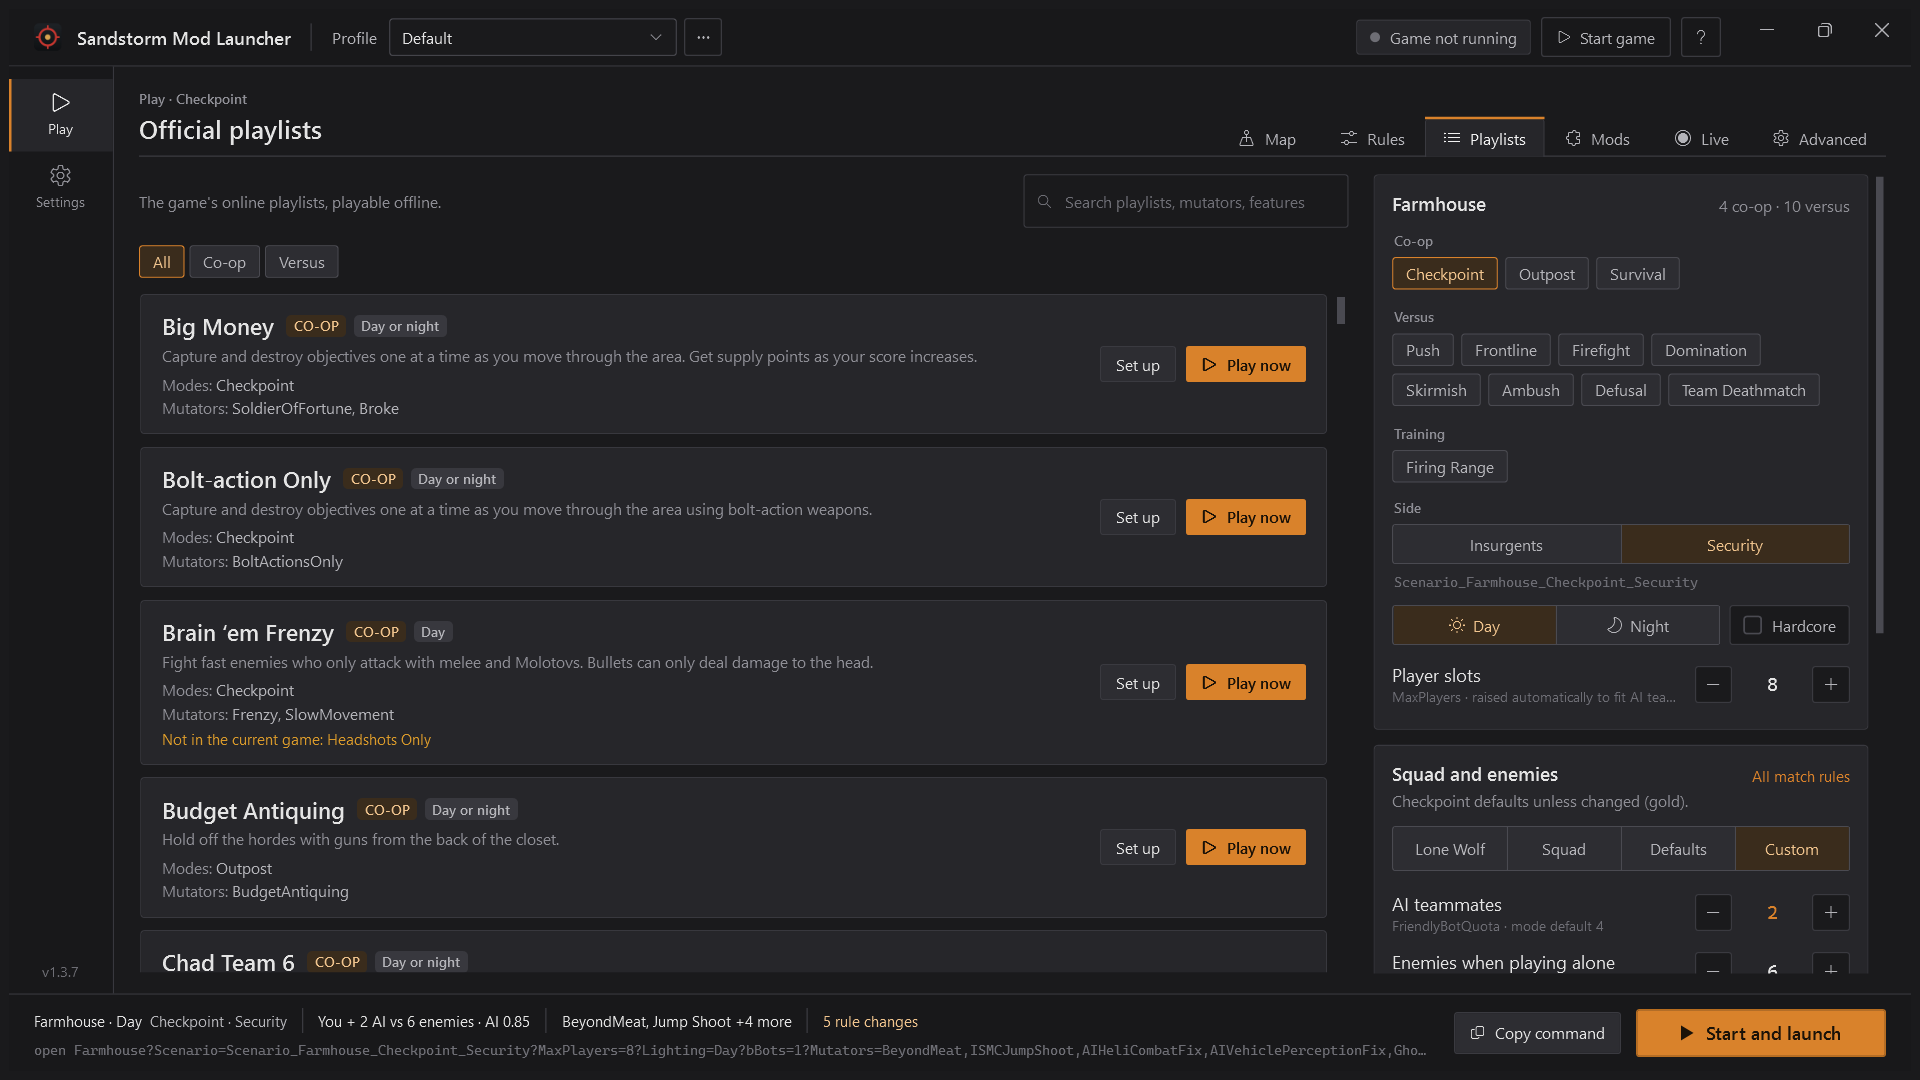
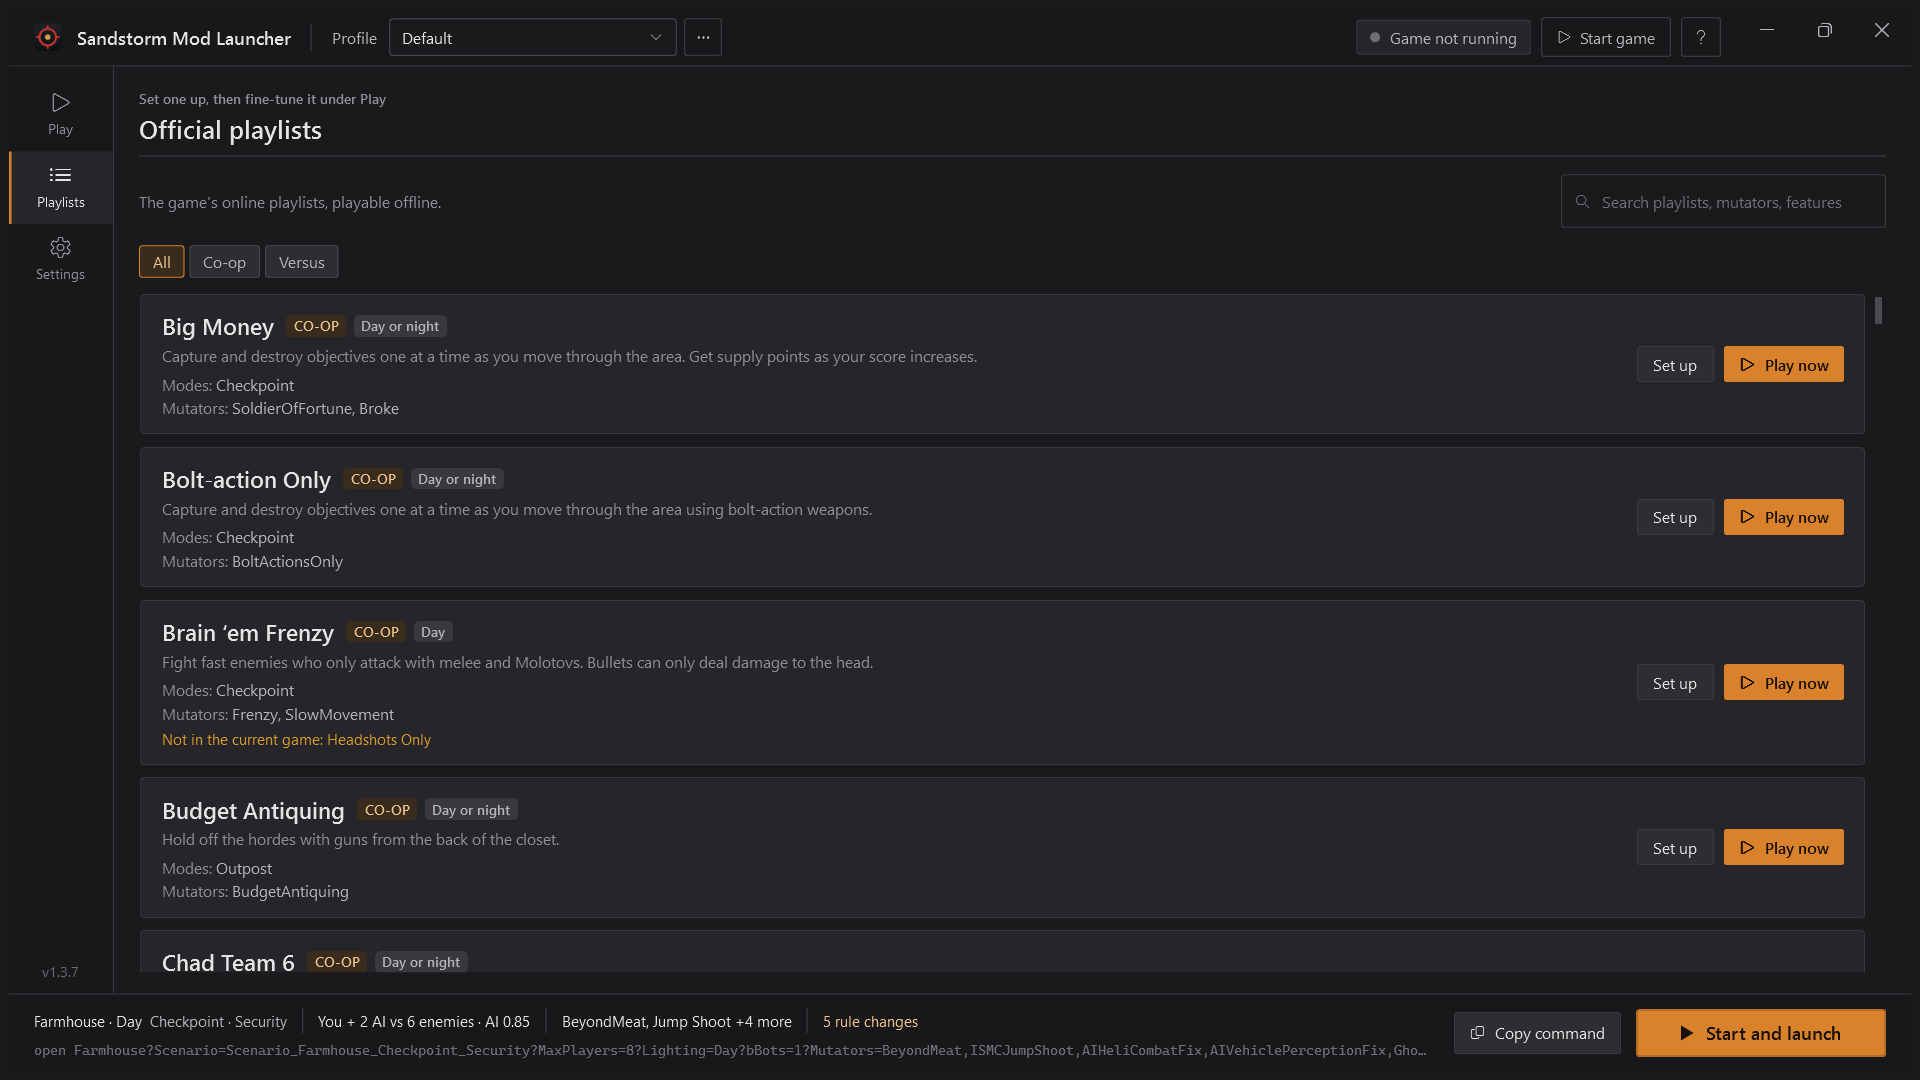
Playlists as its own page between Play and Settings (1.3.7 rebuilt in place)
Play tabs: Map, Rules, Mods, Live, Advanced. PlayTab=Playlists and a saved last page of Playlists open the new page; 'Set up' on a playlist goes back to Play > Map.

diff --git a/Views/MainWindow.xaml b/Views/MainWindow.xaml
@@ -126,7 +126,8 @@
                             <TextBlock Text="{Binding AppVersion}" FontSize="11" Foreground="{StaticResource TextFaint}" HorizontalAlignment="Center" />
                         </StackPanel>
                         <StackPanel Margin="0,10,0,0">
-                            <RadioButton Style="{StaticResource NavButton}" Content="Play" Tag="&#xE768;" IsChecked="{Binding Page, Converter={StaticResource Eq}, ConverterParameter=Play}" ToolTip="Map, squad, rules, official playlists and live control of the match" />
+                            <RadioButton Style="{StaticResource NavButton}" Content="Play" Tag="&#xE768;" IsChecked="{Binding Page, Converter={StaticResource Eq}, ConverterParameter=Play}" ToolTip="Map, squad, rules, mods and live control of the match" />
+                            <RadioButton Style="{StaticResource NavButton}" Content="Playlists" Tag="&#xE8FD;" IsChecked="{Binding Page, Converter={StaticResource Eq}, ConverterParameter=Playlists}" ToolTip="Every official online playlist, playable offline" />
                             <RadioButton Style="{StaticResource NavButton}" Content="Settings" Tag="&#xE713;" IsChecked="{Binding Page, Converter={StaticResource Eq}, ConverterParameter=Settings}" ToolTip="Game folder, console key, launch options" />
                         </StackPanel>
                     </DockPanel>
@@ -137,6 +138,20 @@
                     <Grid MinWidth="980" MinHeight="600"
                           Width="{Binding ViewportWidth, ElementName=pageScroll}" Height="{Binding ViewportHeight, ElementName=pageScroll}">
                         <p:PlayPage Visibility="{Binding Page, Converter={StaticResource Vis}, ConverterParameter=Play}" />
+                        <!-- Playlists: its own page (since 1.3.8), full width -->
+                        <Grid Margin="20,18,20,16" Visibility="{Binding Page, Converter={StaticResource Vis}, ConverterParameter=Playlists}">
+                            <Grid.RowDefinitions>
+                                <RowDefinition Height="Auto" />
+                                <RowDefinition Height="*" />
+                            </Grid.RowDefinitions>
+                            <Border Style="{StaticResource TabStrip}">
+                                <StackPanel Margin="0,0,0,8">
+                                    <TextBlock Style="{StaticResource Kicker}" Text="Set one up, then fine-tune it under Play" />
+                                    <TextBlock Text="Official playlists" Style="{StaticResource H1}" FontSize="20" Margin="0,2,0,0" />
+                                </StackPanel>
+                            </Border>
+                            <p:PlaylistsPage Grid.Row="1" />
+                        </Grid>
                         <p:SettingsPage Visibility="{Binding Page, Converter={StaticResource Vis}, ConverterParameter=Settings}" />
                     </Grid>
                 </ScrollViewer>

diff --git a/Views/Pages/PlayPage.xaml b/Views/Pages/PlayPage.xaml
@@ -70,7 +70,6 @@
                                 <Setter Property="Text" Value="Map and scenario" />
                                 <Style.Triggers>
                                     <DataTrigger Binding="{Binding PlayTab}" Value="Rules"><Setter Property="Text" Value="Match rules" /></DataTrigger>
-                                    <DataTrigger Binding="{Binding PlayTab}" Value="Playlists"><Setter Property="Text" Value="Official playlists" /></DataTrigger>
                                     <DataTrigger Binding="{Binding PlayTab}" Value="Live"><Setter Property="Text" Value="Live match control" /></DataTrigger>
                                     <DataTrigger Binding="{Binding PlayTab}" Value="Mods"><Setter Property="Text" Value="Mods and mutators" /></DataTrigger>
                                     <DataTrigger Binding="{Binding PlayTab}" Value="Advanced"><Setter Property="Text" Value="Advanced options" /></DataTrigger>
@@ -92,13 +91,6 @@
                             <StackPanel Orientation="Horizontal">
                                 <TextBlock Text="&#xE9E9;" Style="{StaticResource Icon}" FontSize="13" Margin="0,0,8,0" />
                                 <TextBlock Text="{Binding RulesTabLabel}" />
-                            </StackPanel>
-                        </RadioButton>
-                        <RadioButton Style="{StaticResource TabSegment}" IsChecked="{Binding PlayTab, Converter={StaticResource Eq}, ConverterParameter=Playlists}"
-                                     ToolTip="Every official online playlist, playable offline">
-                            <StackPanel Orientation="Horizontal">
-                                <TextBlock Text="&#xE8FD;" Style="{StaticResource Icon}" FontSize="13" Margin="0,0,8,0" />
-                                <TextBlock Text="Playlists" />
                             </StackPanel>
                         </RadioButton>
                         <RadioButton Style="{StaticResource TabSegment}" IsChecked="{Binding PlayTab, Converter={StaticResource Eq}, ConverterParameter=Mods}"
@@ -425,7 +417,6 @@
             </Grid>
 
             <!-- ============================================================ playlists + live -->
-            <p:PlaylistsPage Grid.Row="0" Grid.RowSpan="2" Visibility="{Binding PlayTab, Converter={StaticResource Vis}, ConverterParameter=Playlists}" />
             <p:LivePage Grid.Row="0" Grid.RowSpan="2" Visibility="{Binding PlayTab, Converter={StaticResource Vis}, ConverterParameter=Live}" />
             <p:ModsPage Grid.Row="0" Grid.RowSpan="2" Visibility="{Binding PlayTab, Converter={StaticResource Vis}, ConverterParameter=Mods}" />
 

diff --git a/ViewModels/MainViewModel.Settings.cs b/ViewModels/MainViewModel.Settings.cs
@@ -68,7 +68,7 @@ namespace SandstormModLauncher.ViewModels
             CancelCustomMapCommand = new RelayCommand(() => MapEditorOpen = false);
             HelpCommand = new AsyncCommand(() => ShowMessage("How it works",
                 "1. PLAY > Map: pick a map and scenario, then set your squad and the enemies on the right. Every value starts at that mode's own default. Changed values turn gold.\n\n" +
-                "2. PLAY > Rules has every other match setting of that mode, with play-style presets and the official rulesets. PLAY > Playlists sets up any official online playlist for offline play. PLAY > Advanced shows exactly what will be sent to the game.\n\n" +
+                "2. PLAY > Rules has every other match setting of that mode, with play-style presets and the official rulesets. PLAYLISTS (left bar) sets up any official online playlist for offline play. PLAY > Advanced shows exactly what will be sent to the game.\n\n" +
                 "3. PLAY > Mods: tick the mutators you want, in load order. Installed mods lists what the game has downloaded.\n\n" +
                 "4. Press LAUNCH (or F5). The launcher writes your rules to Game.ini, starts the game if needed, waits for the main menu and sends the match through the console. It checks on screen that the console is open before typing, and stops if it is not. Keep your hands off the keyboard for those few seconds.\n\n" +
                 "5. PLAY > Live works during a match: restart rounds, set the clock, respawn bots, change rules, without typing commands.\n\n" +

diff --git a/App.xaml.cs b/App.xaml.cs
@@ -236,7 +236,7 @@ namespace SandstormModLauncher
                 Layout();
                 var init = vm.InitializeAsync();
                 for (int i = 0; i < 600 && vm.Loading; i++) await Task.Delay(100);
-                if (pages.Count == 0) pages = new System.Collections.Generic.List<string> { "Play", "Play-Rules", "Play-Playlists", "Mods", "Mods-Installed", "Play-Live", "Play-Advanced", "Settings" };
+                if (pages.Count == 0) pages = new System.Collections.Generic.List<string> { "Play", "Play-Rules", "Mods", "Mods-Installed", "Play-Live", "Play-Advanced", "Playlists", "Settings" };
                 foreach (var page in pages)
                 {
                     // "Play-Rules" = page Play, tab Rules

diff --git a/ViewModels/MainViewModel.cs b/ViewModels/MainViewModel.cs
@@ -94,7 +94,7 @@ namespace SandstormModLauncher.ViewModels
                 lastPhase = Monitor.Phase;
                 lastRunning = Monitor.IsRunning;
                 RaiseSettings();
-                Page = State.Settings.LastPage == "Mods" || State.Settings.LastPage == "Settings" ? State.Settings.LastPage : State.Settings.LastPage == "Mutators" ? "Mods" : "Play";
+                Page = State.Settings.LastPage == "Mods" || State.Settings.LastPage == "Settings" || State.Settings.LastPage == "Playlists" ? State.Settings.LastPage : State.Settings.LastPage == "Mutators" ? "Mods" : "Play";
                 Loading = false;
                 OnGameStateChanged();
                 if (!State.Install.IsValid)

diff --git a/ViewModels/MainViewModel.Mods.cs b/ViewModels/MainViewModel.Mods.cs
@@ -165,7 +165,7 @@ namespace SandstormModLauncher.ViewModels
             ProfileChanged();
             string note = def.Missing.Count > 0 ? " (" + string.Join(", ", def.Missing) + " left out: not in the current game)" : "";
             ShowToast(def.Title + " is set up on " + map.Name + note);
-            if (!launch) PlayTab = "Map";
+            if (!launch) { Page = "Play"; PlayTab = "Map"; }
             else if (LaunchCommand.CanExecute(null)) LaunchCommand.Execute(null);
             else ShowToast(def.Title + " is set up. " + (PlanError ?? "Launch is not possible right now."));
         }

diff --git a/ViewModels/MainViewModel.Rules.cs b/ViewModels/MainViewModel.Rules.cs
@@ -1,4 +1,4 @@
-using System;
+using System;
 using System.Collections.Generic;
 using System.Collections.ObjectModel;
 using System.ComponentModel;
@@ -55,6 +55,8 @@ namespace SandstormModLauncher.ViewModels
             get => playTab;
             set
             {
+                // Playlists is its own page since 1.3.8.
+                if (value == "Playlists") { Page = "Playlists"; return; }
                 if (!Set(ref playTab, string.IsNullOrEmpty(value) ? "Map" : value)) return;
                 SyncRulesModeToScenario();
                 if (playTab == "Live") RefreshLive();

diff --git a/README.md b/README.md
@@ -11,7 +11,7 @@ Local play launcher for **Insurgency: Sandstorm**. Play offline with bots, mods 
 ## Features
 
 - All official maps and scenarios plus mod maps, day or night, Hardcore Checkpoint
-- One Play page with fixed tabs: Map (map, squad and enemies), Rules (every setting of the selected mode), Playlists (all official online playlists), Mods (all mutators, official ones grouped by the playlists that use them, and the installed mods), Live (control of the running match) and Advanced
+- Play page with fixed tabs: Map (map, squad and enemies), Rules (every setting of the selected mode), Mods (all mutators, official ones grouped by the playlists that use them, and the installed mods), Live (control of the running match) and Advanced. Playlists page: all official online playlists
 - Lone Wolf, a squad of AI teammates, or your own mix of teammates, enemy counts and AI difficulty, starting from each mode's real defaults. Separate squad settings for co-op and versus; versus with bots as 1v1, 5v5, 10v10 or any team size
 - All official and mod mutators, read from the mods the game has installed, with load order and presets
 - Every game mode setting (100+ per mode): rounds, time, waves, objectives, counter-attacks, respawns, supply, friendly fire, HUD

diff --git a/packaging/release-notes.md b/packaging/release-notes.md
@@ -3,7 +3,7 @@ Local play launcher for Insurgency: Sandstorm: bots, mods, mutators and full mat
 **Changes in 1.3.7**
 
 - Fixed: Ambush and Free For All stayed at "waiting for players" with no bots. Both modes wait for two human players before the match starts, and bots only join after that. With bots on, one player is now enough, the modes get a bot count (5 when none is set) and enough player slots for all bots.
-- Mods are now a tab of Play (Map, Rules, Playlists, Mods, Live, Advanced), next to everything else you set up for a match. The left bar has Play and Settings.
+- Mods are now a tab of Play (Map, Rules, Mods, Live, Advanced), next to everything else you set up for a match. Playlists has its own page in the left bar, between Play and Settings.
 - The Mods tab keeps its lists readable at large text sizes.
 
 **Changes in 1.3.6**
